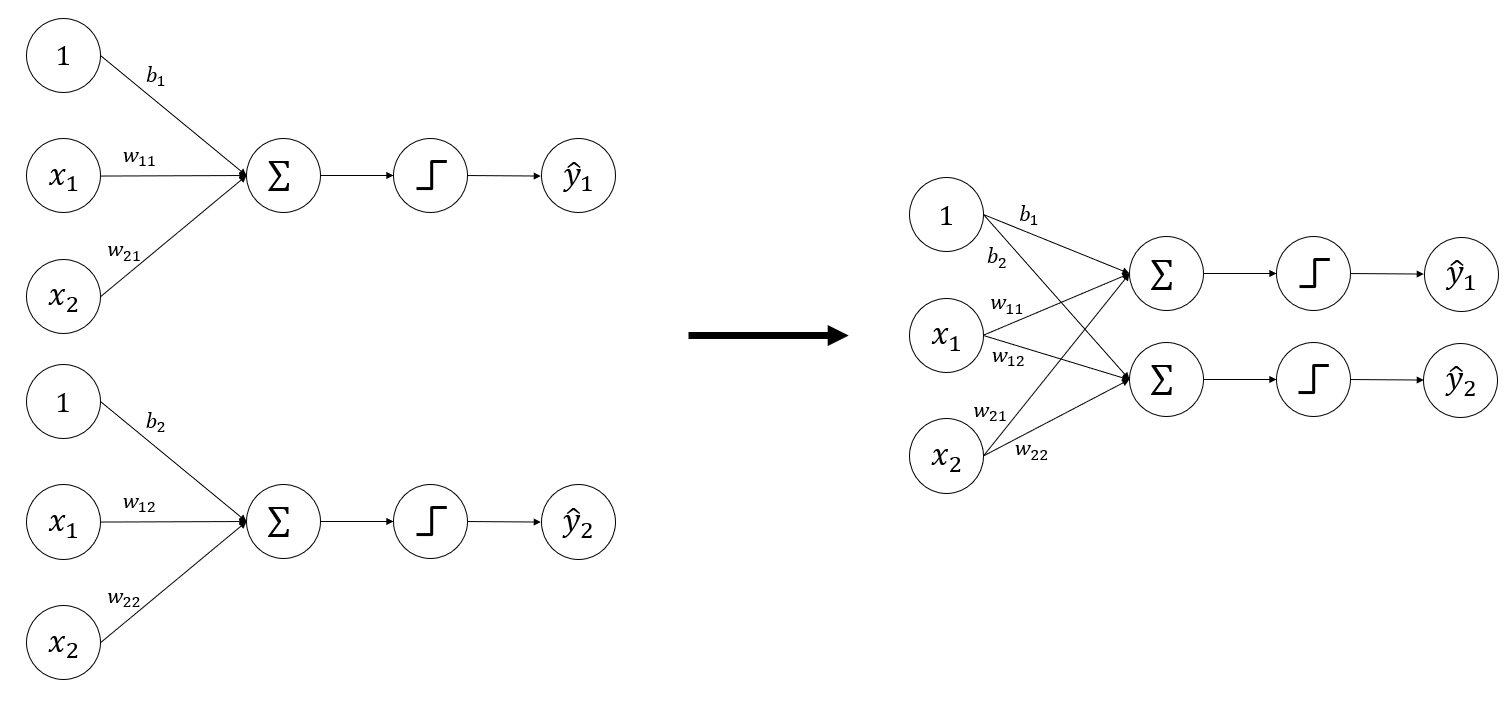
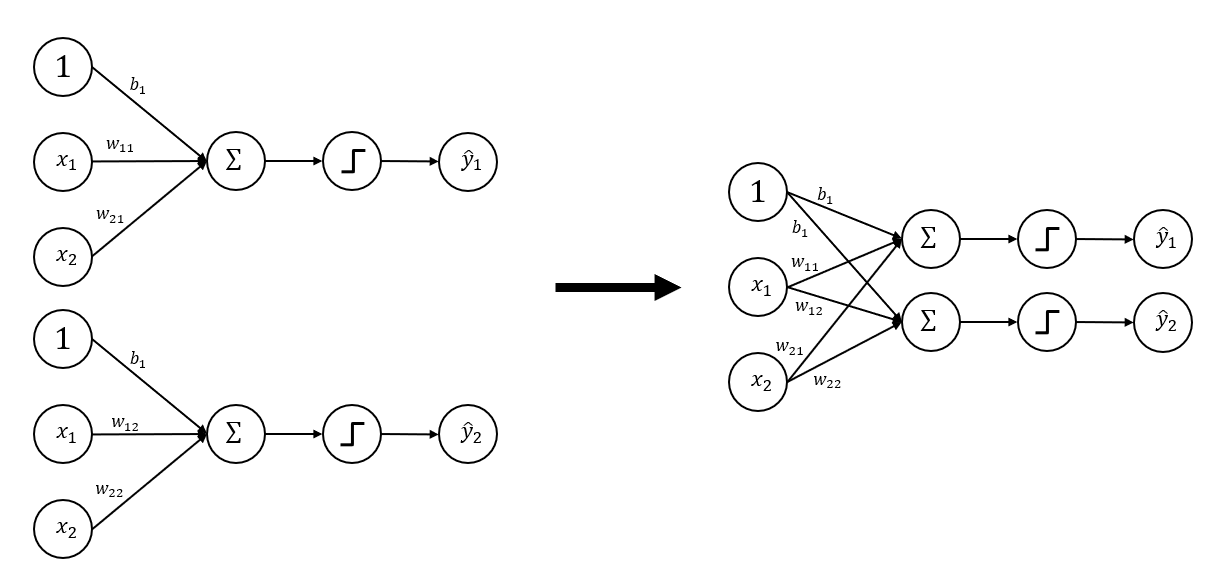
CNN 02 study
forward propagation 코드 작성
backward 구현 예정

diff --git a/01_perceptron.py b/01_perceptron.py
@@ -50,12 +50,12 @@
 #
 # \begin{equation}\label{eqn:eq5} W = \left( \begin{matrix}  w_1 & w_2 \end{matrix} \right) = \left( \begin{matrix}  w_{11} & w_{12} \newline w_{21} & w_{22} \end{matrix} \right), \enspace
 # x = \left( \begin{matrix}  x_{1} \newline x_{2} \end{matrix} \right), \enspace
-# b = \left( \begin{matrix}  b_{1} \newline b_{2} \end{matrix} \right) \end{equation}
+# b = \left( \begin{matrix}  b_{1} \newline b_{1} \end{matrix} \right) \end{equation}
 #
 # \begin{equation}\label{eqn:eq6}
 # \begin{split}
 # g &= W^Tx + b \\\\[5pt]
-#     &= \left( \begin{matrix}  w_{11} & w_{21} \newline w_{12} & w_{22} \end{matrix} \right) \left( \begin{matrix}  x_{1} \newline x_{2} \end{matrix} \right) + \left( \begin{matrix}  b_{1} \newline b_{2} \end{matrix} \right)
+#     &= \left( \begin{matrix}  w_{11} & w_{21} \newline w_{12} & w_{22} \end{matrix} \right) \left( \begin{matrix}  x_{1} \newline x_{2} \end{matrix} \right) + \left( \begin{matrix}  b_{1} \newline b_{1} \end{matrix} \right)
 # \end{split}
 # \end{equation}
 #
@@ -71,10 +71,10 @@
 # \begin{equation}\label{eqn:eq7}
 # \begin{split}
 # g &= W^Tx + b \\\\[5pt]
-#     &= \left( \begin{matrix}  0.7 & 0.3 \newline 0.2 & 0.4 \end{matrix} \right) \left( \begin{matrix}  2 \newline 4 \end{matrix} \right) + \left( \begin{matrix} -0.3 \newline 0.1 \end{matrix} \right)
+#     &= \left( \begin{matrix}  0.7 & 0.3 \newline 0.2 & 0.4 \end{matrix} \right) \left( \begin{matrix}  2 \newline 4 \end{matrix} \right) + \left( \begin{matrix} -0.2 \newline -0.2 \end{matrix} \right)
 # \end{split}
 # \end{equation}
-# 계산해보면, $g_1=2.3, g_2=2.1$로 계산되어서, $\hat{y_1}=1, \hat{y_2}=1$을 얻을 수 있다.  
+# 계산해보면, $g_1=2.4, g_2=1.8$로 계산되어서, $\hat{y_1}=1, \hat{y_2}=1$을 얻을 수 있다.  
 # 아래 코드는 python으로 구현한 것인데, $W$의 행렬이 numpy에서 애초에 계산이 편하게끔 들어가 있기 때문에 그대로 `gx = np.dot(W, x) + b`을 사용했다.
 
 # +
@@ -88,18 +88,17 @@ x = input_data.reshape(-1)
 # Weight & bias
 w1 = np.array([0.7, 0.3]) # w11, w21
 w2 = np.array([0.2, 0.4]) # w12, w22
-b1 = -0.3
-b2 = 0.1
+b1 = -0.2
 
 # Calculate g(x)
 W = np.array([w1, w2])
-b = np.array([b1, b2])
+b = np.array([b1, b1])
 gx = np.dot(W, x) + b
 
 # h(x), output layer
 hx = gx >= 0 # Step function
 
-print("g =",gx) # [2.3 2.1]
+print("g =",gx) # [2.4 1.8]
 print("h =", hx) # [True, True] [1, 1]
 # -
 

diff --git a/02_propagation.py b/02_propagation.py
@@ -1,0 +1,63 @@
+# ---
+# jupyter:
+#   jupytext:
+#     formats: ipynb,py:light
+#     text_representation:
+#       extension: .py
+#       format_name: light
+#       format_version: '1.5'
+#       jupytext_version: 1.11.3
+#   kernelspec:
+#     display_name: Python 3 (ipykernel)
+#     language: python
+#     name: python3
+# ---
+
+# # CNN 02 - Forward/backward propagation
+# Last updated: 21.11.02
+# Written by Jinseok Moon
+
+# + language="javascript"
+# MathJax.Hub.Config({
+#     TeX: { equationNumbers: { autoNumber: "AMS" } }
+# });
+#
+
+# +
+# Basic import
+import numpy as np
+
+def sigmoid(x):
+    return 1 / (1 +np.exp(-x))
+
+# Input layer
+input_data = np.array([2, 4, 3])
+x = input_data.reshape(-1)
+
+# First layer
+w1 = np.array([0.7, 0.3, 0.9]) # w11, w21, w31
+w2 = np.array([0.2, 0.4, 0.1]) # w12, w22, w32
+b1 = -0.2
+
+W = np.array([w1, w2])
+b = np.array([b1, b1])
+g1x = np.dot(W, x) + b
+h1x = sigmoid(g1x)
+
+print("g1 =",g1x) # g1 = [3.9 3.6]
+print("h1 =", h1x) # h1 = [0.98015969 0.97340301]
+
+# +
+# Second layer
+
+w3 = np.array([0.1, 0.5]) # w41, w42
+w4 = np.array([0.8, 0.4]) # w51, w52
+b2 = 0.5
+
+W_ = np.array([w3, w4])
+b_ = np.array([b2, b2])
+g2x = np.dot(W_, h1x) + b_
+h2x = sigmoid(g2x)
+
+print("g2 =",g2x) # g2 = [1.04484561 1.65151343]
+print("h2 =", h2x) # h2 = [0.73978389 0.83909549]
